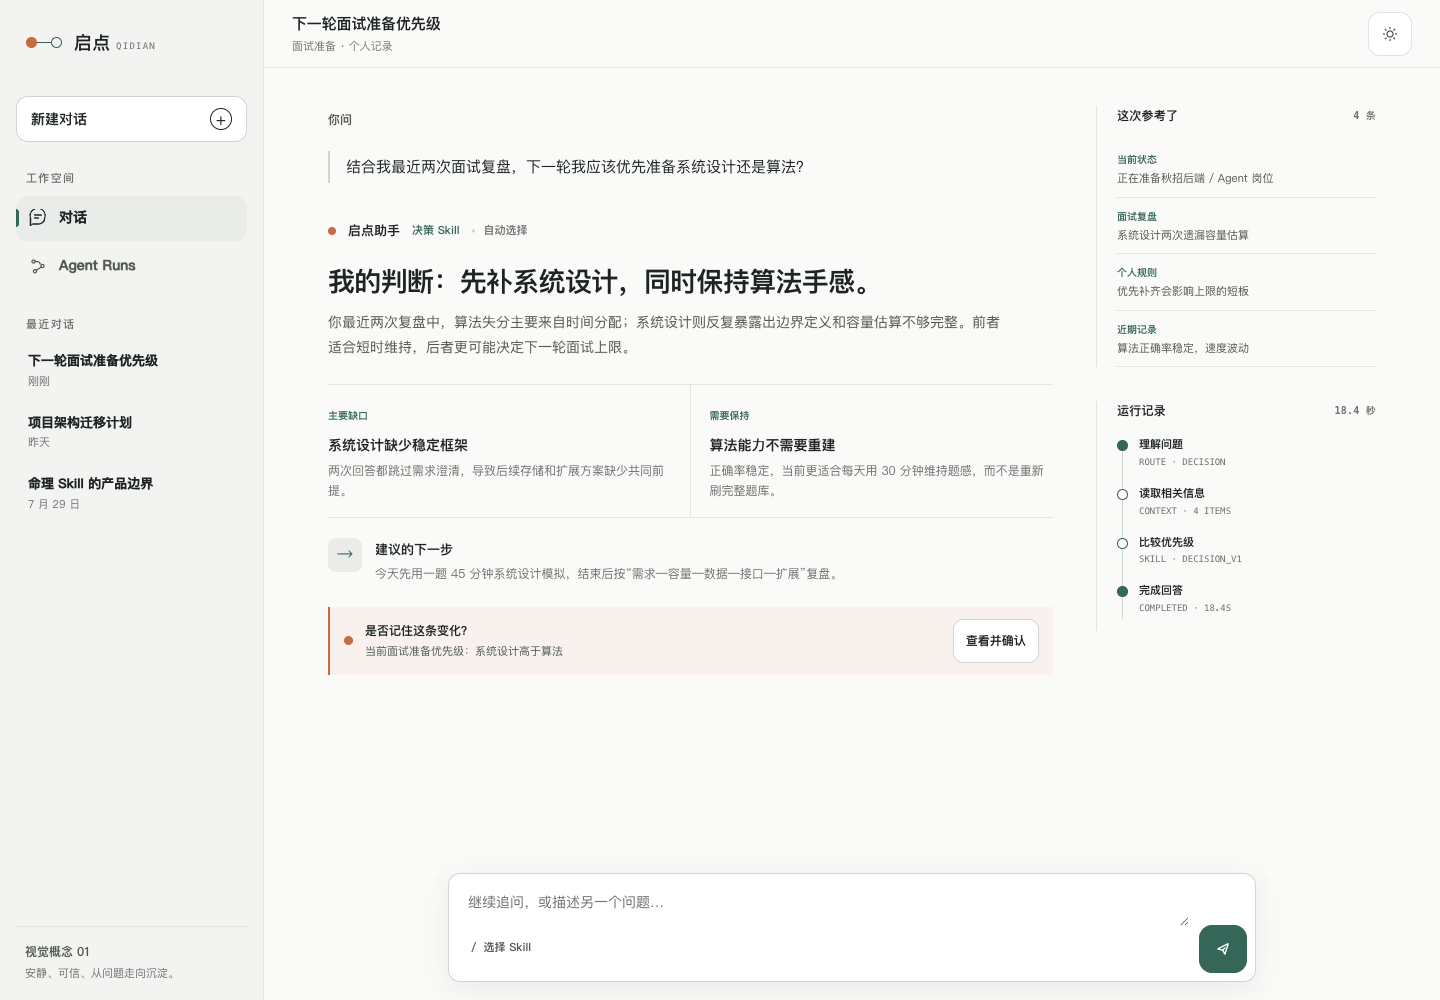
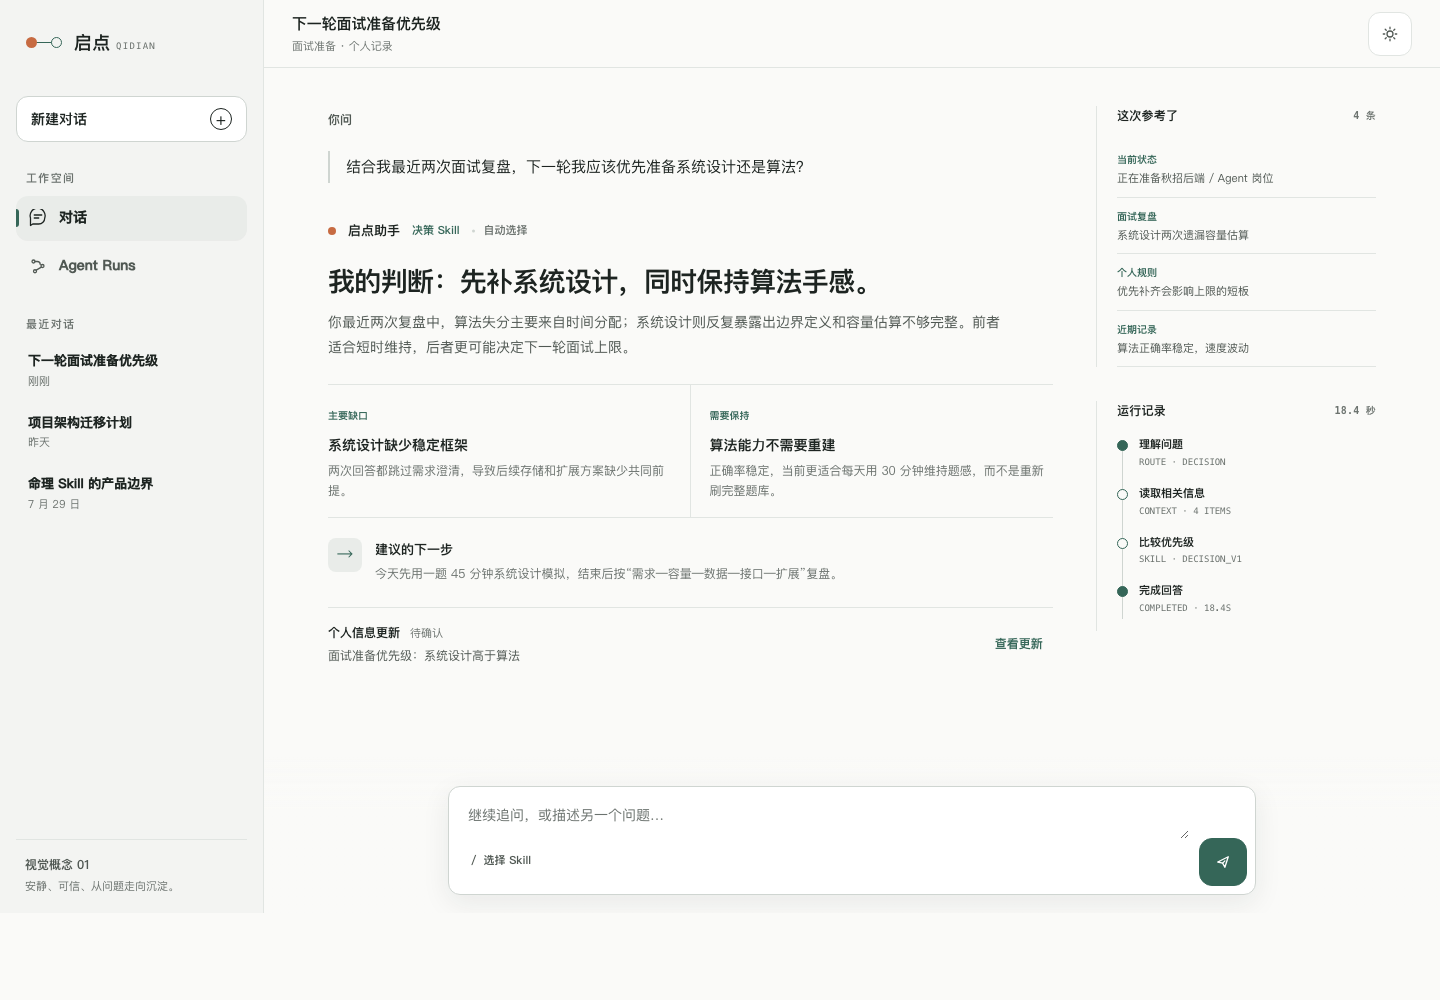
docs: refine Qidian update proposal UI

diff --git a/docs/design/previews/qidian-workspace-concept.html b/docs/design/previews/qidian-workspace-concept.html
@@ -678,62 +678,54 @@
 
       .proposal {
         display: grid;
-        grid-template-columns: auto minmax(0, 1fr) auto;
+        grid-template-columns: minmax(0, 1fr) auto;
         align-items: center;
-        gap: 12px;
+        gap: 16px;
         margin-top: 24px;
-        border: 0;
-        border-left: 2px solid var(--start);
-        border-radius: 0;
-        background: color-mix(in srgb, var(--start-soft) 58%, transparent);
-        padding: 12px 14px;
-      }
-
-      .proposal-dot {
-        width: 9px;
-        height: 9px;
-        border-radius: 50%;
-        background: var(--start);
+        border-top: 1px solid var(--border);
+        padding-top: 14px;
       }
 
       .proposal-copy {
         min-width: 0;
       }
 
-      .proposal-copy strong,
-      .proposal-copy span {
-        display: block;
+      .proposal-heading {
+        display: flex;
+        align-items: baseline;
+        gap: 10px;
       }
 
-      .proposal-copy strong {
+      .proposal-heading strong {
         font-size: 12px;
       }
 
-      .proposal-copy span {
-        overflow: hidden;
-        margin-top: 2px;
-        color: var(--muted-strong);
+      .proposal-status {
+        color: var(--muted);
         font-size: 11px;
-        text-overflow: ellipsis;
-        white-space: nowrap;
+      }
+
+      .proposal-value {
+        display: block;
+        margin-top: 4px;
+        color: var(--muted-strong);
+        font-size: 12px;
+        line-height: 1.5;
       }
 
       .text-button {
         min-height: 44px;
-        border: 1px solid var(--border-strong);
-        border-radius: 10px;
-        background: var(--surface);
-        padding: 0 12px;
-        color: var(--ink);
+        border: 0;
+        border-radius: 8px;
+        background: transparent;
+        padding: 0 10px;
+        color: var(--primary);
         font-size: 12px;
         font-weight: 650;
-        transition:
-          border-color 160ms var(--ease),
-          background-color 160ms var(--ease);
+        transition: background-color 160ms var(--ease);
       }
 
       .text-button:hover {
-        border-color: var(--primary);
         background: var(--primary-soft);
       }
 
@@ -1205,12 +1197,7 @@
         }
 
         .proposal {
-          grid-template-columns: auto minmax(0, 1fr);
-        }
-
-        .proposal .text-button {
-          grid-column: 1 / -1;
-          width: 100%;
+          gap: 12px;
         }
       }
 
@@ -1446,13 +1433,15 @@
               </section>
 
               <section class="proposal" aria-label="个人信息更新建议">
-                <span class="proposal-dot" aria-hidden="true"></span>
                 <div class="proposal-copy">
-                  <strong>是否记住这条变化？</strong>
-                  <span>当前面试准备优先级：系统设计高于算法</span>
+                  <div class="proposal-heading">
+                    <strong>个人信息更新</strong>
+                    <span class="proposal-status">待确认</span>
+                  </div>
+                  <span class="proposal-value">面试准备优先级：系统设计高于算法</span>
                 </div>
                 <button class="text-button" type="button" id="review-proposal">
-                  查看并确认
+                  查看更新
                 </button>
               </section>
             </article>
@@ -1683,7 +1672,7 @@
       });
 
       document.querySelector("#review-proposal").addEventListener("click", () => {
-        showToast("概念稿：这里会打开可修改、确认或拒绝的更新建议。");
+        showToast("概念稿：这里会打开更新详情，你可以接受、修改、暂缓或拒绝。");
       });
 
       document.querySelector("#new-chat").addEventListener("click", () => {
